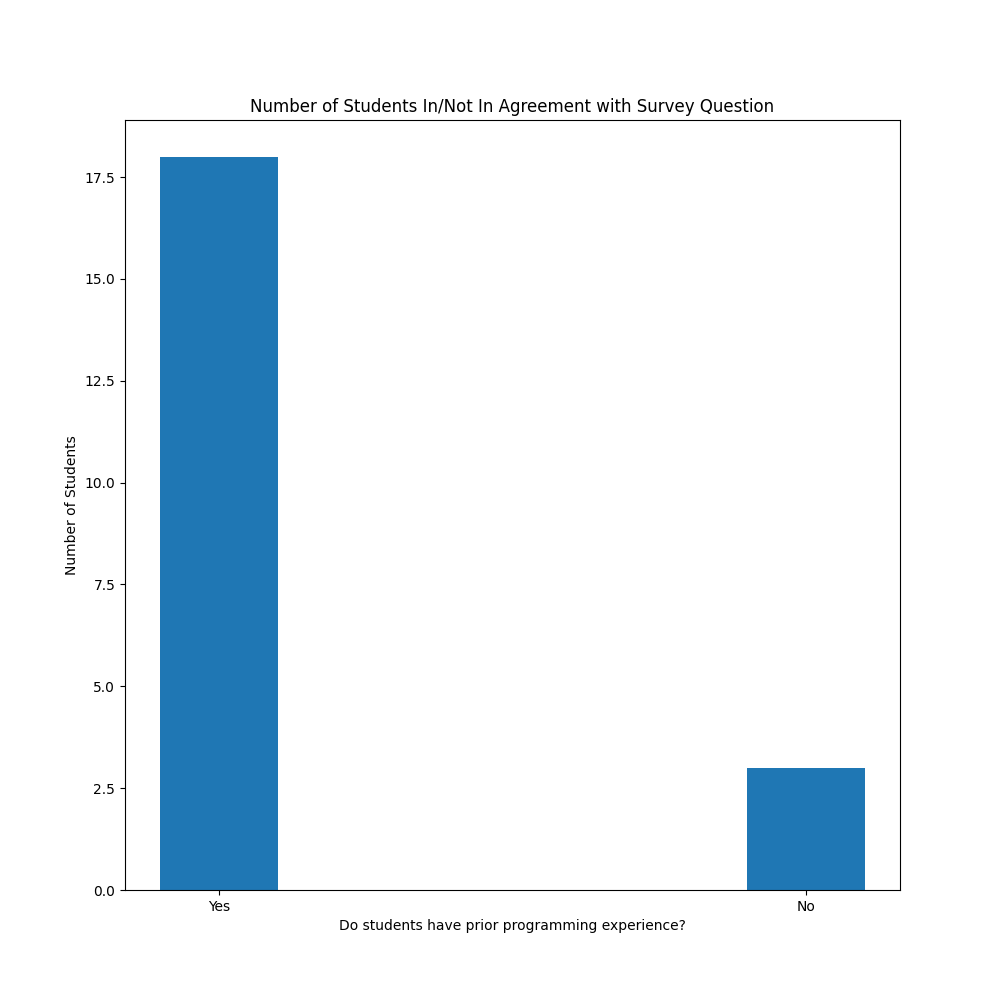
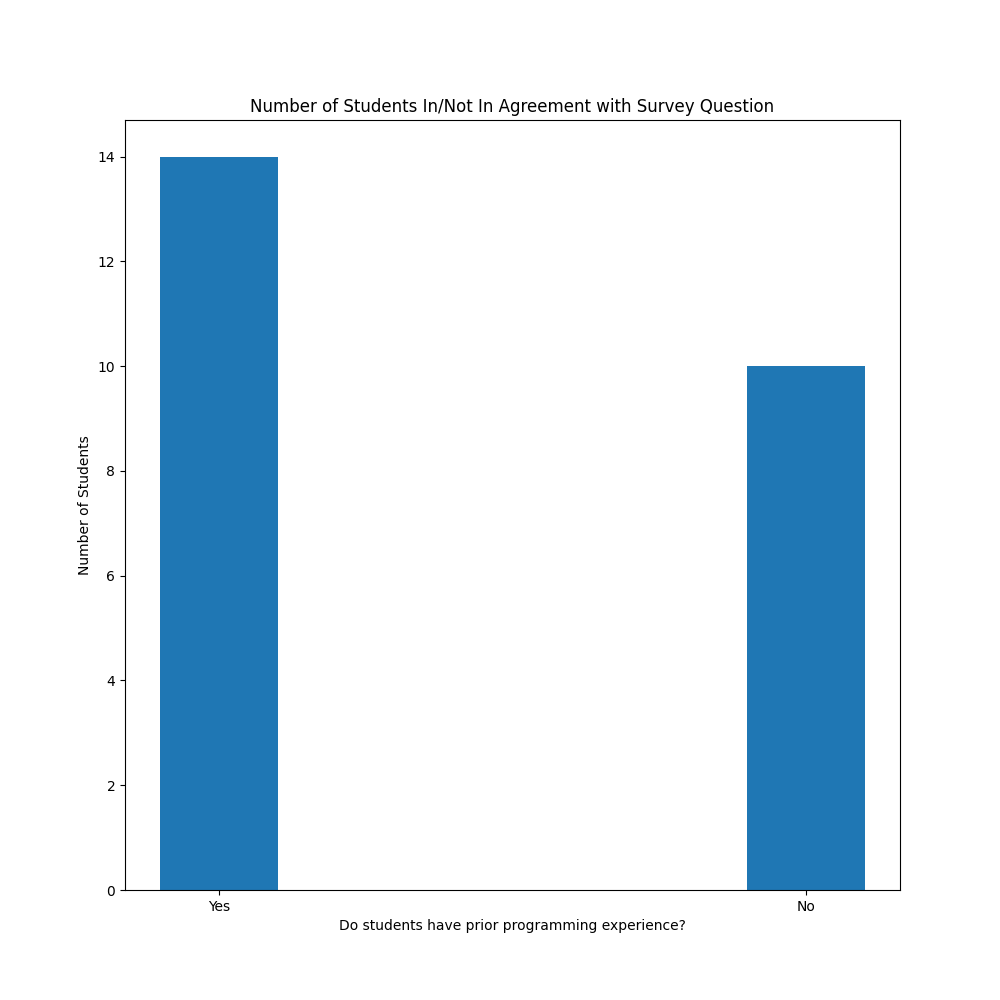
calc prior xp update

diff --git a/calc_data.py b/calc_data.py
@@ -10,7 +10,7 @@ Would you benefit from greater integration of Python into this course? 15 yes, 9
 
 
 '''
-data = {'Yes':18,'No':3}
+data = {'Yes':14,'No':10}
 x = list(data.keys())
 
 y = list(data.values())
